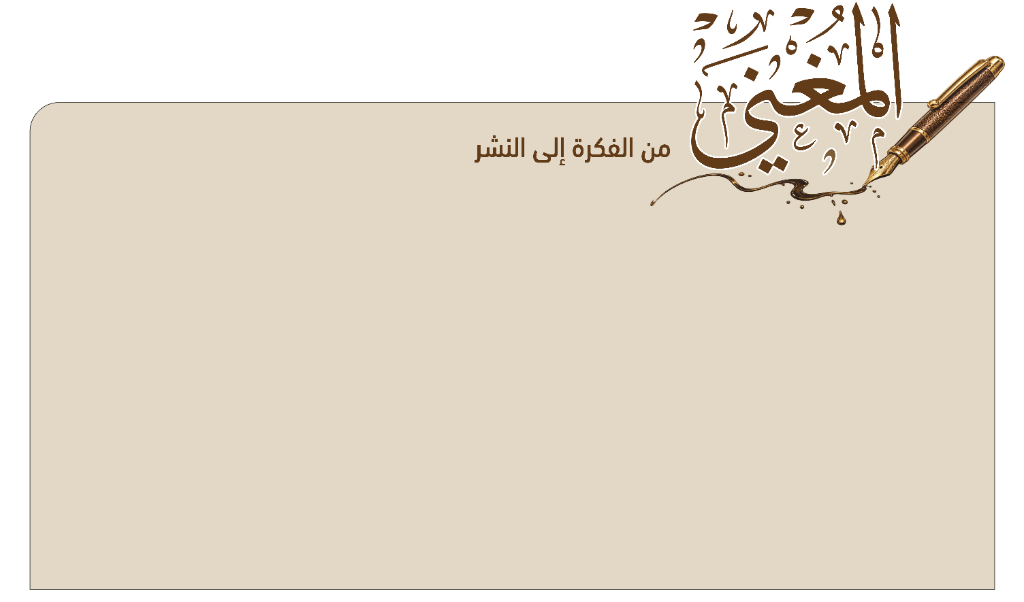
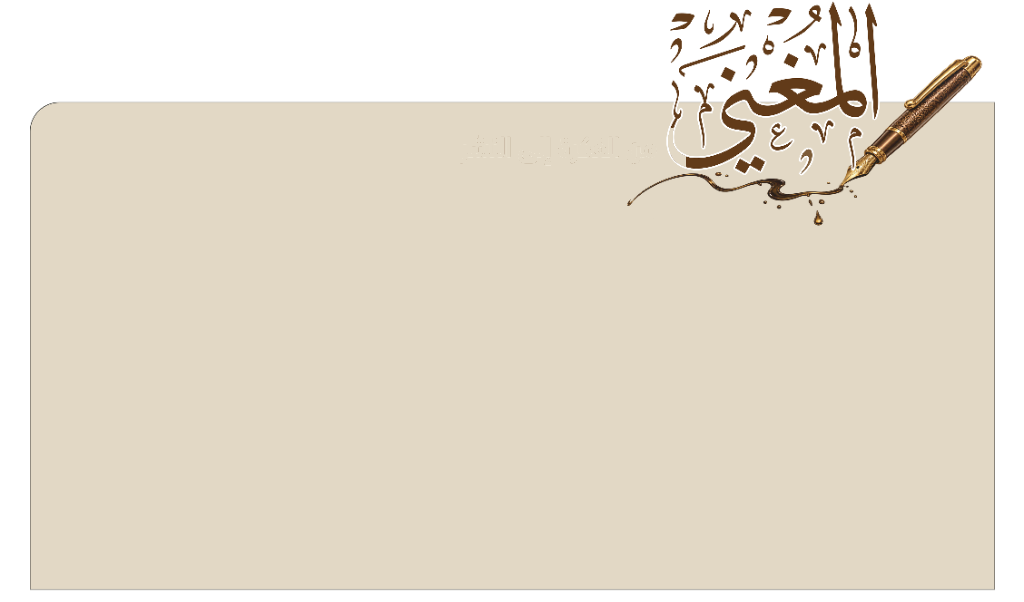
1.10.577: النسخة مكان العبارة وإلغاء نافذة اختيار الشاملة

Changed region(s): [[0.4375, 0.0, 1.0, 0.3887], [0.625, 0.299, 0.6562, 0.3289]]

diff --git a/macos/AlMujtahedLauncher.swift b/macos/AlMujtahedLauncher.swift
@@ -556,7 +556,7 @@ final class Launcher: NSObject, NSApplicationDelegate, NSWindowDelegate {
     private let support = FileManager.default.homeDirectoryForCurrentUser
         .appendingPathComponent("Library/Application Support/Al-Mujtahed", isDirectory: true)
     private var statusURL: URL { support.appendingPathComponent("status.txt") }
-    private let interfaceURL = URL(string: "http://127.0.0.1:8085/?v=1.10.576")!
+    private let interfaceURL = URL(string: "http://127.0.0.1:8085/?v=1.10.577")!
     private let ink = NSColor(srgbRed: 0.165, green: 0.133, blue: 0.102, alpha: 1)
     private let clay = NSColor(srgbRed: 0.710, green: 0.416, blue: 0.298, alpha: 1)
     private let emerald = NSColor(srgbRed: 0.184, green: 0.435, blue: 0.369, alpha: 1)
@@ -687,7 +687,7 @@ final class Launcher: NSObject, NSApplicationDelegate, NSWindowDelegate {
     }
 
     private var appVersion: String {
-        Bundle.main.object(forInfoDictionaryKey: "CFBundleShortVersionString") as? String ?? "1.10.576"
+        Bundle.main.object(forInfoDictionaryKey: "CFBundleShortVersionString") as? String ?? "1.10.577"
     }
 
     private func buildWindow() {
@@ -953,12 +953,7 @@ final class Launcher: NSObject, NSApplicationDelegate, NSWindowDelegate {
     }
 
     private func beginSetup() {
-        let choice = support.appendingPathComponent("runtime/web_ui/local_source.json")
-        if FileManager.default.fileExists(atPath: choice.path) || dataAlreadyInstalled() {
-            startEngine()
-            return
-        }
-        askSource()
+        startEngine()
     }
 
     private func dataAlreadyInstalled() -> Bool {
@@ -1130,7 +1125,18 @@ final class Launcher: NSObject, NSApplicationDelegate, NSWindowDelegate {
         ctx.draw(base, in: CGRect(x: 0, y: 0, width: width, height: height))
         let brown = CGColor(srgbRed: 91 / 255, green: 51 / 255, blue: 16 / 255, alpha: 1)
         let brownInk = NSColor(srgbRed: 91 / 255, green: 51 / 255, blue: 16 / 255, alpha: 1)
-        drawBoardText("النسخة: \(appVersion)", at: CGPoint(x: 48, y: CGFloat(height) - 168), context: ctx, color: brownInk, size: 22, bold: true)
+        let versionText = "النسخة: \(appVersion)"
+        let versionFont = CTFontCreateWithName(almarai(22, bold: true).fontName as CFString, 22, nil)
+        let versionLine = CTLineCreateWithAttributedString(NSAttributedString(string: versionText, attributes: [
+            .font: versionFont,
+            .foregroundColor: brownInk
+        ]))
+        var versionAscent: CGFloat = 0
+        var versionDescent: CGFloat = 0
+        let versionWidth = CGFloat(CTLineGetTypographicBounds(versionLine, &versionAscent, &versionDescent, nil))
+        ctx.textMatrix = .identity
+        ctx.textPosition = CGPoint(x: 672 - versionWidth, y: CGFloat(height) - 158)
+        CTLineDraw(versionLine, ctx)
         let track = CGRect(x: 120, y: CGFloat(height) - 420, width: 784, height: 40)
         let caption = "جارٍ إعداد التطبيق فضلاً انتظر ..."
         let captionFont = CTFontCreateWithName(almarai(24, bold: false).fontName as CFString, 24, nil)
@@ -1176,17 +1182,6 @@ final class Launcher: NSObject, NSApplicationDelegate, NSWindowDelegate {
         guard let painted = ctx.makeImage() else { return }
         boardView.image = NSImage(cgImage: painted, size: boardPoint)
         boardView.layer?.contentsScale = boardBacking
-    }
-
-    private func drawBoardText(_ text: String, at point: CGPoint, context ctx: CGContext, color: NSColor, size: CGFloat, bold: Bool) {
-        let font = CTFontCreateWithName(almarai(size, bold: bold).fontName as CFString, size, nil)
-        let line = CTLineCreateWithAttributedString(NSAttributedString(string: text, attributes: [
-            .font: font,
-            .foregroundColor: color
-        ]))
-        ctx.textMatrix = .identity
-        ctx.textPosition = point
-        CTLineDraw(line, ctx)
     }
 
     private func refreshProgress(resetSpeed: Bool) {

diff --git a/web_ui/templates/index.html b/web_ui/templates/index.html
@@ -7,7 +7,7 @@
     <title>المجتهد | من الفكرة إلي النشر</title>
     <meta name="description"
         content="منظومة المجتهد - من الفكرة إلي النشر، مع محادثة ذكية ووكلاء مساعدين">
-    <link rel="stylesheet" href="/static/css/claude_theme.css?v=1.10.576">
+    <link rel="stylesheet" href="/static/css/claude_theme.css?v=1.10.577">
     <link rel="preconnect" href="https://fonts.googleapis.com">
     <link rel="preconnect" href="https://fonts.gstatic.com" crossorigin>
     <link
@@ -25,8 +25,8 @@
         <div class="header-top">
             <div class="brand-section">
                 <div class="brand-title">
-                    <img class="brand-mark" src="/static/brand-mark.png?v=1.10.576" alt="المجتهد">
-                    <span class="brand-version" id="appVersionLabel">إصدار رقم 1.10.576 (نسخة تجريبية)</span>
+                    <img class="brand-mark" src="/static/brand-mark.png?v=1.10.577" alt="المجتهد">
+                    <span class="brand-version" id="appVersionLabel">إصدار رقم 1.10.577 (نسخة تجريبية)</span>
                 </div>
                 <span class="brand-subtitle-1">من الفكرة إلي النشر</span>
             </div>
@@ -6045,7 +6045,7 @@
     <script src="/static/js/markmap-lib.min.js"></script>
     <script src="/static/js/g6.min.js"></script>
     <script src="/static/js/g2.min.js"></script>
-    <script src="/static/js/app.js?v=1.10.576"></script>
+    <script src="/static/js/app.js?v=1.10.577"></script>
     <script src="/static/js/search.js?v=1.10.493"></script>
     <script src="/static/js/reader.js?v=1.10.493"></script>
     <script src="/static/js/force3d.js?v=1.10.493"></script>
@@ -6053,12 +6053,12 @@
     <script src="/static/js/chat.js?v=1.10.493"></script>
     <script src="/static/js/designs.js?v=1.10.493"></script>
     <script src="/static/js/texts.js?v=1.10.493"></script>
-    <script src="/static/js/agents.js?v=1.10.576"></script>
+    <script src="/static/js/agents.js?v=1.10.577"></script>
     <script src="/static/js/providers.js?v=1.10.493"></script>
     <script src="/static/js/tools.js?v=1.10.493"></script>
     <script src="/static/js/shamela_link.js?v=1.10.493"></script>
     <script src="/static/js/projects.js?v=1.10.493"></script>
-    <script src="/static/js/manuscripts.js?v=1.10.576"></script>
+    <script src="/static/js/manuscripts.js?v=1.10.577"></script>
     <script src="/static/js/archive.js?v=1.10.493"></script>
     <script src="/static/js/compare.js?v=1.10.493"></script>
     <script src="/static/js/local_models.js?v=1.10.493"></script>

diff --git a/web_ui/templates/auth.html b/web_ui/templates/auth.html
@@ -259,7 +259,7 @@
                 <div class="auth-logo" id="authLogo">🌟</div>
                 <div class="auth-title-row">
                     <h1 class="auth-title" id="authTitle">منظومة المجتهد</h1>
-                    <p class="auth-version" id="appVersionLabel">إصدار رقم 1.10.576 (نسخة تجريبية)</p>
+                    <p class="auth-version" id="appVersionLabel">إصدار رقم 1.10.577 (نسخة تجريبية)</p>
                 </div>
                 <p class="auth-subtitle" id="authSubtitle">من الفكرة إلي النشر</p>
             </div>

diff --git a/windows/AlMujtahedApp.cs b/windows/AlMujtahedApp.cs
@@ -366,7 +366,12 @@ sealed class InstallerForm : Form
             g.DrawImage(boardBase, 0, 0, boardBase.Width, boardBase.Height);
             using var brownInk = new SolidBrush(Color.FromArgb(255, 91, 51, 16));
             using var versionFont = new Font("Tahoma", 22, FontStyle.Bold, GraphicsUnit.Pixel);
-            g.DrawString("النسخة: " + AppVersion(), versionFont, brownInk, new PointF(48, 138));
+            using var versionFormat = new StringFormat(StringFormatFlags.DirectionRightToLeft)
+            {
+                Alignment = StringAlignment.Near,
+                LineAlignment = StringAlignment.Center
+            };
+            g.DrawString("النسخة: " + AppVersion(), versionFont, brownInk, new RectangleF(430, 136, 242, 32), versionFormat);
             var track = new Rectangle(120, 380, 784, 40);
             using var captionFont = new Font("Tahoma", 24, FontStyle.Regular, GraphicsUnit.Pixel);
             using var captionFormat = new StringFormat(StringFormatFlags.DirectionRightToLeft)
@@ -521,13 +526,7 @@ sealed class InstallerForm : Form
 
     void BeginSetup()
     {
-        var choice = Path.Combine(Paths.Runtime, "web_ui", "local_source.json");
-        if (File.Exists(choice) || DataAlreadyInstalled())
-        {
-            StartEngine();
-            return;
-        }
-        AskSource();
+        StartEngine();
     }
 
     bool DataAlreadyInstalled()
@@ -726,7 +725,7 @@ sealed class InstallerForm : Form
             appWindow = new AppForm();
             appWindow.VisibleChanged += (_, _) => tray.Visible = ready && !Visible && appWindow is { Visible: false };
         }
-        _ = appWindow.Open("http://127.0.0.1:8085/?v=1.10.576");
+        _ = appWindow.Open("http://127.0.0.1:8085/?v=1.10.577");
         tray.Visible = false;
     }
 

diff --git a/web_ui/server.py b/web_ui/server.py
@@ -7631,7 +7631,7 @@ def mcp_open_session(url: str) -> Tuple[str, Optional[str], List[dict]]:
         "params": {
             "protocolVersion": "2024-11-05",
             "capabilities": {},
-            "clientInfo": {"name": "almujtahed", "version": "1.10.576"},
+            "clientInfo": {"name": "almujtahed", "version": "1.10.577"},
         },
     })
     if opened.get("error"):

diff --git a/changes.md b/changes.md
@@ -1,5 +1,10 @@
 # سجل الإصدارات
 
+## 1.10.577 (نسخة تجريبية)
+
+- استبدال لوحة التنصيب، وإزالة «من الفكرة إلى النشر» ووضع «النسخة:» ورقمها مكانها.
+- لم تعد تظهر نافذة اختيار مجلد الشاملة، محلية أو سحابية، عند التنصيب.
+
 ## 1.10.576 (نسخة تجريبية)
 
 - استبدال لوحة التنصيب والشعار في أعلى التطبيق بالرسمين الجديدين.
